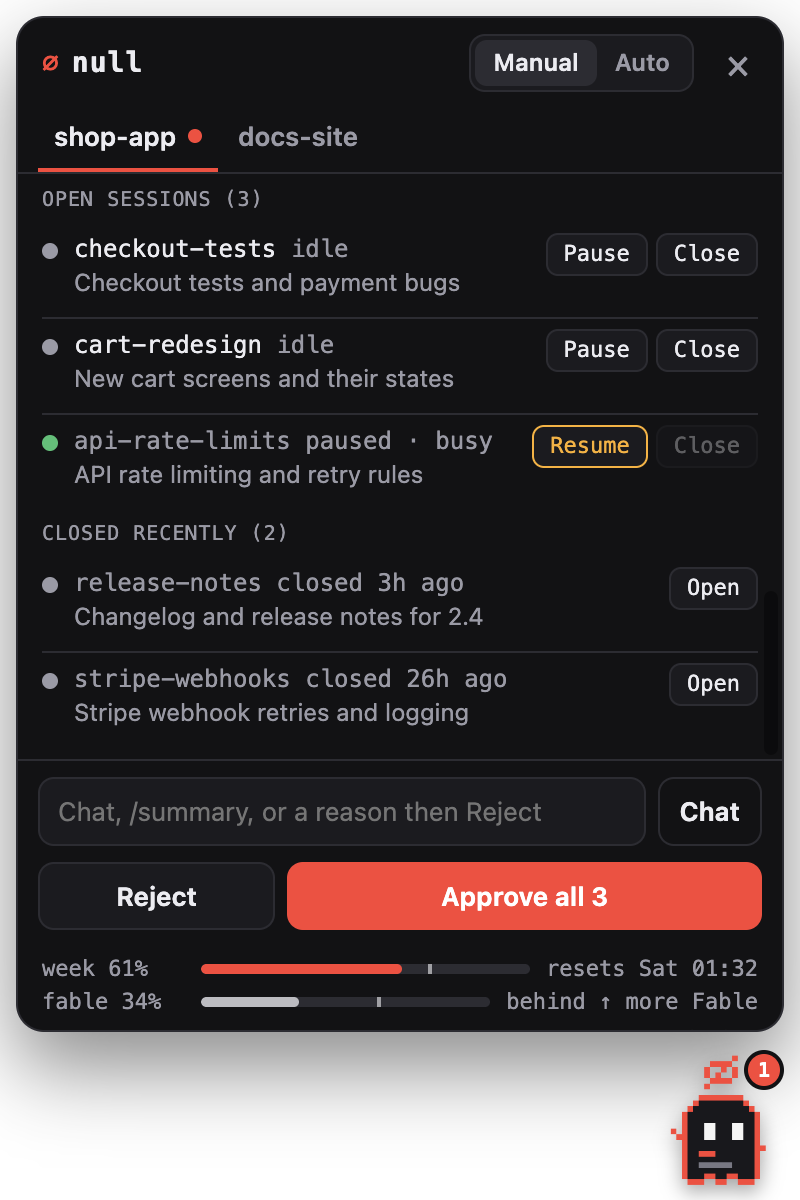
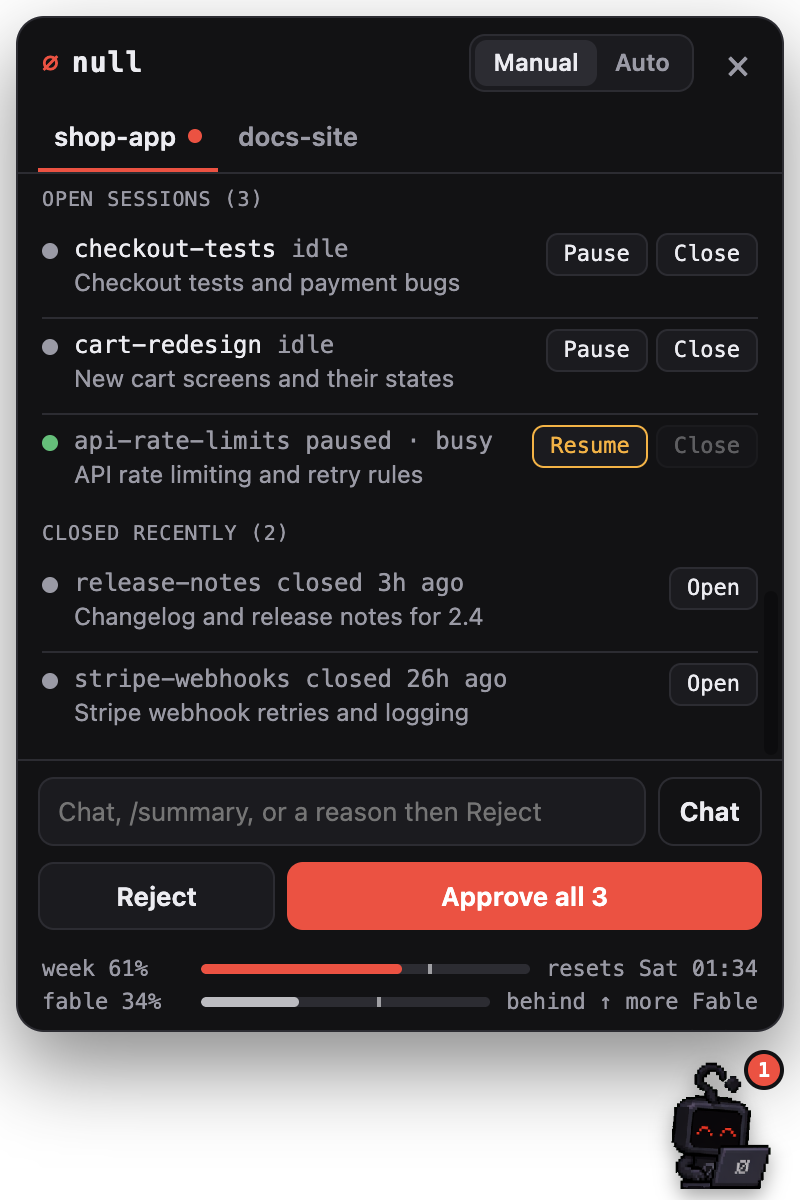
Use the included null sprite by default
- README and the sprite script describe the Codex null pet now kept in
  assets/custom/ (OpenAI's artwork, credited), and how to swap it.
- assets/custom/ is no longer ignored; the empty placeholder file is gone.
- Screenshots show the null pet.

Changed region(s): [[0.8438, 0.8633, 0.9688, 1.0]]

diff --git a/scripts/use-codex-pet.js b/scripts/use-codex-pet.js
@@ -1,12 +1,11 @@
 #!/usr/bin/env node
-// Optional: use one of the pets that ships inside your own copy of the ChatGPT / Codex desktop app
-// (for example "null") instead of null's built-in sprite. The art belongs to OpenAI, so it is not in
-// this repository: this copies it from the app on YOUR Mac into assets/custom/, which git ignores.
+// Switches null to another pet that ships inside the ChatGPT / Codex desktop app on this Mac, by
+// copying its sheet into assets/custom/ (the art belongs to OpenAI).
 //
 //   npm run sprite:codex            # the "null" pet
 //   npm run sprite:codex -- --list  # show the pets your app has
 //   npm run sprite:codex -- hoots   # another one
-//   npm run sprite:default          # back to the built-in sprite
+//   npm run sprite:default          # no custom sprite: the plain fallback pet
 const fs = require('fs');
 const path = require('path');
 const { execFileSync } = require('child_process');

diff --git a/main.js b/main.js
@@ -25,13 +25,10 @@ let open = false;
 if (process.env.NULL_PET_SNAPSHOT) app.setPath('userData', path.join(process.env.NULL_PET_SNAPSHOT, 'profile'));
 if (!app.requestSingleInstanceLock()) app.quit();
 
-// The built-in sprite, or your own in assets/custom/ (see scripts/use-codex-pet.js). Screenshots
-// for the docs always use the built-in one.
+// The sprite in assets/custom/ (the Codex "null" pet), or the plain fallback pet when it's missing.
 const CUSTOM = path.join(__dirname, 'assets', 'custom');
 function asset(names) {
-  if (!process.env.NULL_PET_SNAPSHOT) {
-    for (const n of names) if (fs.existsSync(path.join(CUSTOM, n))) return path.join(CUSTOM, n);
-  }
+  for (const n of names) if (fs.existsSync(path.join(CUSTOM, n))) return path.join(CUSTOM, n);
   return path.join(__dirname, 'assets', names[names.length - 1]);
 }
 

diff --git a/README.md b/README.md
@@ -64,7 +64,7 @@ npm install
 
 ### 2. Optional: choose the sprite
 
-null ships with its own pixel-art pet. To use a different one, see [The sprite](#the-sprite); do it now, before the first start, and null shows it from the first launch.
+null comes with the Codex "null" pet already in place. To use a different one, see [The sprite](#the-sprite); do it now, before the first start, and null shows it from the first launch.
 
 ### 3. Start
 
@@ -205,23 +205,25 @@ Everything is local, under `~/Library/Application Support/null-pet/`:
 
 ## The sprite
 
-The built-in sprite is original pixel art, generated by [`scripts/make-sprite.js`](scripts/make-sprite.js). Change the script and run `npm run sprite:build` to redraw it.
+null uses the "null" pet from OpenAI's Codex, in [`assets/custom/`](assets/custom): `sprite.webp` is the sheet and `tray.png` the menu-bar icon. That artwork is OpenAI's; this project isn't affiliated with OpenAI.
 
-<img src="docs/sprite-idle.png" alt="The idle frames of the built-in sprite" width="384">
+The sheet uses the Codex pet layout: 8 columns by 11 rows of 192×208 frames (1536×2288 in all). Rows 0–8 are idle, run right, run left, wave, jump, sad, think, work and celebrate; rows 9–10 are 16 directions it looks in when the mouse moves. Any sheet in that layout works:
 
-The sheet uses the Codex pet layout (8 columns by 11 rows of 192×208 frames), so any sheet in that layout works. Put yours at `assets/custom/sprite.webp` or `assets/custom/sprite.png` (create the `custom` folder first); that folder is ignored by git. A 64×64 `assets/custom/tray.png` replaces the menu-bar icon too. null picks the sprite up when it starts, so if null is already running, quit it and start it again.
+1. Replace `assets/custom/sprite.webp` (or add `assets/custom/sprite.png` and remove the `.webp`).
+2. Optionally replace `assets/custom/tray.png` (64×64) for the menu bar.
+3. Start null. If it is already running, quit it and start it again: it picks the sprite up at launch.
 
-If you have the ChatGPT or Codex desktop app installed, you can use one of its pets, such as the original "null", on your own Mac:
+With the ChatGPT desktop app for Mac installed (a free download from openai.com; signing in isn't needed), you can switch to any of its other pets:
 
 ```sh
-npm run sprite:codex              # the "null" pet
 npm run sprite:codex -- --list    # see which pets your app has
-npm run sprite:default            # back to the built-in sprite
+npm run sprite:codex -- hoots     # use one of them
+npm run sprite:codex              # back to "null"
 ```
 
-These need the ChatGPT desktop app for Mac (a free download from openai.com) installed; signing in isn't needed.
+Without `assets/custom/`, null falls back to a plain pixel-art pet drawn by [`scripts/make-sprite.js`](scripts/make-sprite.js) (`npm run sprite:build` redraws it; `npm run sprite:default` removes `assets/custom/` to use it):
 
-That art belongs to OpenAI. The script copies it from your own installation and it is not part of this repository.
+<img src="docs/sprite-idle.png" alt="The idle frames of the fallback sprite" width="384">
 
 ## Troubleshooting
 
@@ -259,7 +261,7 @@ The screenshots in this README are made with invented data: `NULL_PET_SNAPSHOT=/
 
 ## Notes
 
-null is a personal project. It is not affiliated with or endorsed by Anthropic or OpenAI. It sends prompts to your Claude Code sessions on your behalf, so start in manual mode and read what it proposes.
+null is a personal project. It is not affiliated with or endorsed by Anthropic or OpenAI. The null pet artwork belongs to OpenAI. It sends prompts to your Claude Code sessions on your behalf, so start in manual mode and read what it proposes.
 
 ## License
 
